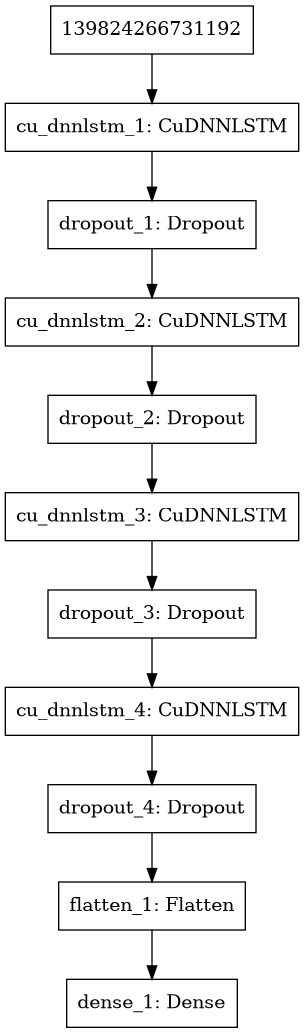
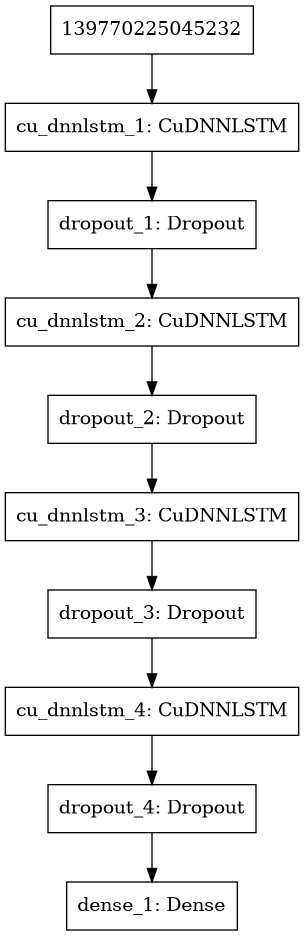
Corrected y_train shape

Changed region(s): [[0.0, 0.0, 1.0, 1.0], [0.0592, 0.7436, 0.1184, 0.7746], [0.0, 0.7436, 0.0296, 0.8056]]

diff --git a/utils/helpers.py b/utils/helpers.py
@@ -56,12 +56,12 @@ def preprocessing_pipeline(X, n_past, n_future):
     X_train = [
         preprocessed[i - n_past:i, :]
         for i in range(n_past,
-                       len(preprocessed) - n_future + 1)
+                       len(preprocessed) - n_future)
     ]
     y_train = [
-        preprocessed[i + n_future - 1:i + n_future, 0]
+        preprocessed[i:i + n_future, 0]
         for i in range(n_past,
-                       len(preprocessed) - n_future + 1)
+                       len(preprocessed) - n_future)
     ]
 
     X_train, y_train = np.array(X_train), np.array(y_train)
@@ -69,38 +69,39 @@ def preprocessing_pipeline(X, n_past, n_future):
     return X_train, y_train
 
 
-def get_data():
+def get_data(main="ETH", secondary="BTC"):
     # TODO: Change hardcoded parameters (ie. BTC/ETH)
     print("Getting data...")
 
-    historical_btc = cc.get_historical_data(fsym="BTC")
-    historical_eth = cc.get_historical_data(fsym="ETH")
+    historical_main = cc.get_historical_data(fsym=main)
+    historical_secondary = cc.get_historical_data(fsym=secondary)
     social = cc.get_social_data()
 
     print("Computing indicators...")
     print("Computing Ichimoku Kinko Hyo...")
-    ichimoku = ind.ichimoku(historical_eth, shift=0)
+    ichimoku = ind.ichimoku(historical_main, shift=0)
 
     print("Computing MACD...")
-    macd = ind.MACD(historical_eth)
+    macd = ind.MACD(historical_main)
 
     print("Computing bollinger bands...")
-    bbands = ind.bollinger(historical_eth)
+    bbands = ind.bollinger(historical_main)
 
     print("Computing fourier transformations at 3, 6, 9 and 100 components...")
-    fourier = ind.fourier(historical_eth)
+    fourier = ind.fourier(historical_main)
 
     print("Computing stochastic rsi...")
-    s_rsi = ind.stochastic_rsi(historical_eth)
+    s_rsi = ind.stochastic_rsi(historical_main)
 
     print("Computing ADX...")
-    adx = ind.ADX(historical_eth)
+    adx = ind.ADX(historical_main)
 
-    historical_btc.columns = [
-        s + "_btc" if s != "time" else s for s in historical_btc.columns
+    historical_secondary.columns = [
+        s + "_{}".format(secondary.lower()) if s != "time" else s
+        for s in historical_secondary.columns
     ]
 
-    data = pd.merge(historical_eth, historical_btc, on="time").merge(
+    data = pd.merge(historical_main, historical_secondary, on="time").merge(
         ichimoku,
         on="time").merge(macd, on="time").merge(bbands, on="time").merge(
             fourier, on="time").merge(s_rsi, on="time").merge(adx, on="time")
@@ -116,9 +117,3 @@ def split(X, testcol="close", limit=32):
     y_test = X.iloc[len(X) - limit:, X.columns.get_loc("close")]
 
     return data_train, y_test
-
-
-def compute_indicators(X):
-    ind.ichimoku(X, shift=0)
-
-    return indicators

diff --git a/cpai.py b/cpai.py
@@ -40,17 +40,6 @@ def main():
     data_train, y_test = hp.split(data, "close", N_FUTURE)
 
     X_train, y_train = hp.preprocessing_pipeline(data_train, N_PAST, N_FUTURE)
-    """
-    X_train = np.load("tmp/X_train.npy")
-
-    np_load_old = np.load
-    # modify the default parameters of np.load
-    np.load = lambda *a, **k: np_load_old(*a, allow_pickle=True, **k)
-
-    y_train = np.load("tmp/y_train.npy")
-
-    y_test = np.load("tmp/y_test.npy")
-    """
 
     regressor = md.build_regressor(N_PAST, X_train.shape[2])
 

diff --git a/utils/neuralnet/model.py b/utils/neuralnet/model.py
@@ -25,12 +25,10 @@ def build_regressor(n_past, n_features):
     regressor.add(CuDNNLSTM(units=65, return_sequences=True))
     regressor.add(Dropout(rate=.2))
 
-    regressor.add(CuDNNLSTM(units=65, return_sequences=True))
+    regressor.add(CuDNNLSTM(units=65))
     regressor.add(Dropout(rate=.2))
 
-    regressor.add(Flatten())
-
-    regressor.add(Dense(units=1, activation="linear"))
+    regressor.add(Dense(units=32, activation="linear"))
 
     regressor.compile(optimizer="rmsprop", loss="mean_squared_error")
 
